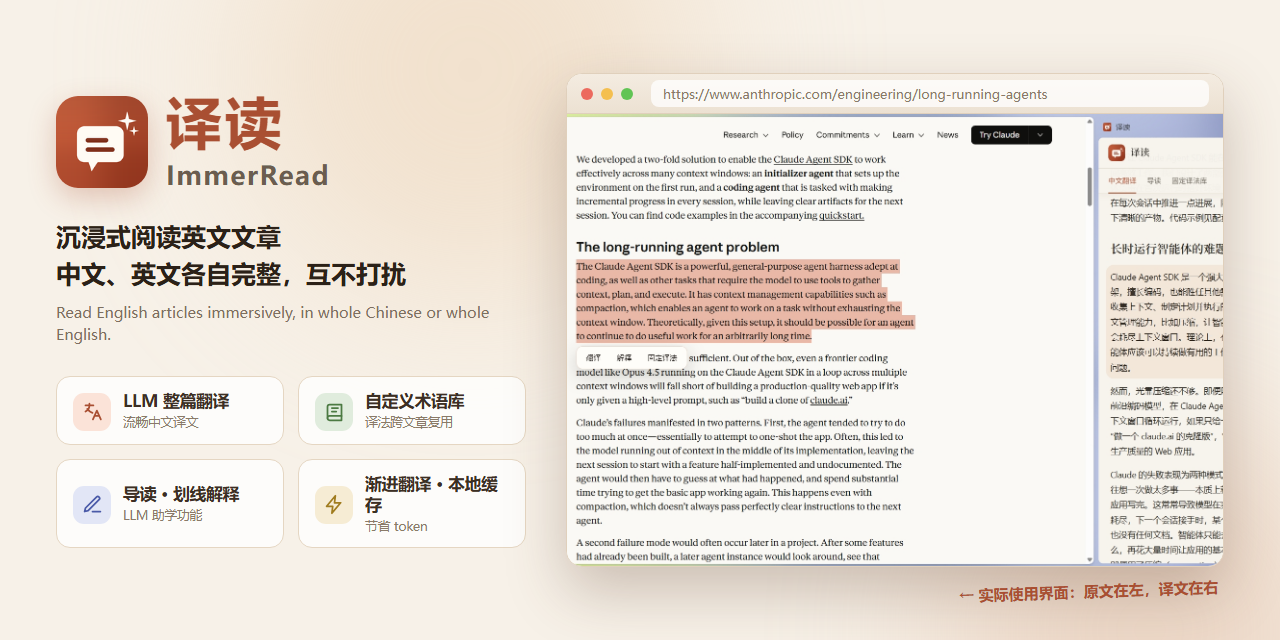
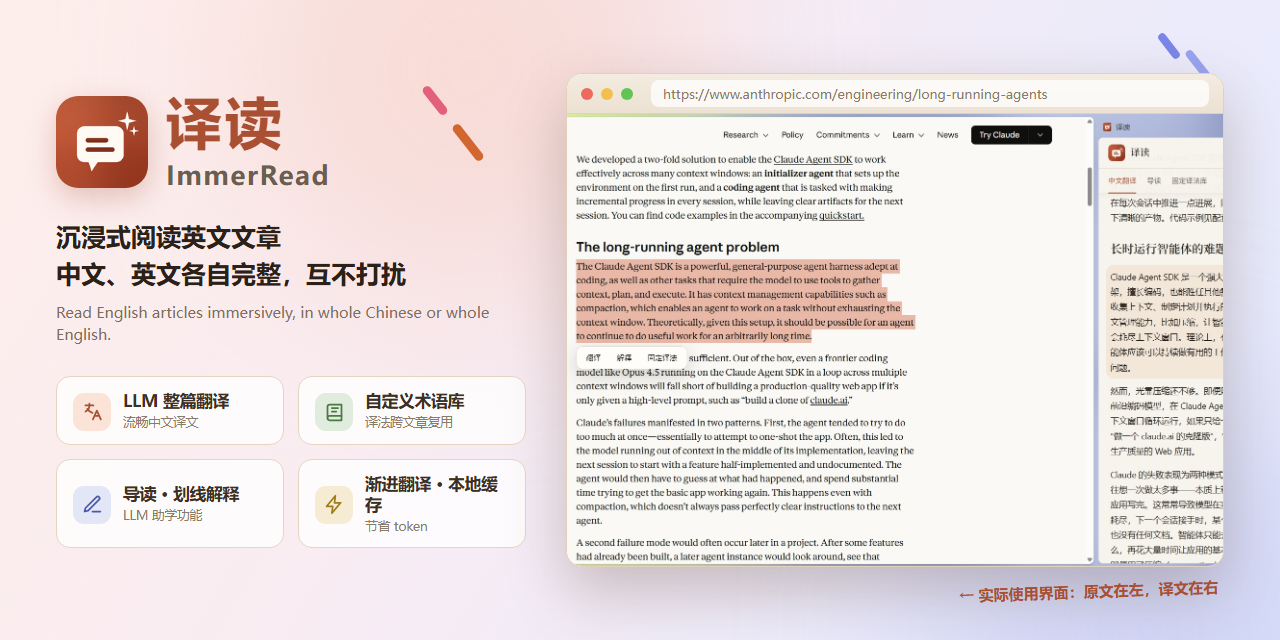
docs: social preview 换用粉紫 pastel 背景与装饰笔触

diff --git a/design-previews/social-preview.html b/design-previews/social-preview.html
@@ -7,7 +7,7 @@
   html, body { width: 1280px; height: 640px; }
   body {
     font-family: "Microsoft YaHei", "PingFang SC", "Noto Sans CJK SC", sans-serif;
-    background: #f7f1e8;
+    background: linear-gradient(120deg, #fdeeea 0%, #f9ecf2 38%, #ecebfb 72%, #e3e9fb 100%);
     color: #2b2118;
     display: flex;
     align-items: center;
@@ -17,8 +17,8 @@
     overflow: hidden;
   }
   .glow { position: absolute; border-radius: 50%; filter: blur(90px); }
-  .glow.a { width: 460px; height: 460px; background: #ecd2b4; top: -160px; left: 240px; opacity: .5; }
-  .glow.b { width: 420px; height: 420px; background: #ddb296; bottom: -200px; right: -80px; opacity: .4; }
+  .glow.a { width: 460px; height: 460px; background: #f6cfc4; top: -160px; left: 240px; opacity: .55; }
+  .glow.b { width: 460px; height: 460px; background: #c3c8f2; bottom: -220px; right: -100px; opacity: .55; }
 
   .left { width: 470px; flex: none; position: relative; }
   .brand { display: flex; align-items: center; gap: 18px; }
@@ -86,11 +86,20 @@
     font-weight: 600;
     transform: rotate(-2deg);
   }
+  .spark { position: absolute; border-radius: 6px; }
+  .spark.s1 { width: 34px; height: 9px; background: #e2607a; top: 96px; left: 418px; transform: rotate(52deg); }
+  .spark.s2 { width: 44px; height: 9px; background: #d1662f; top: 138px; left: 446px; transform: rotate(52deg); }
+  .spark.s3 { width: 30px; height: 8px; background: #7a86e8; top: 42px; right: 96px; transform: rotate(52deg); }
+  .spark.s4 { width: 38px; height: 8px; background: #9aa3f0; top: 62px; right: 62px; transform: rotate(52deg); }
 </style>
 </head>
 <body>
   <div class="glow a"></div>
   <div class="glow b"></div>
+  <div class="spark s1"></div>
+  <div class="spark s2"></div>
+  <div class="spark s3"></div>
+  <div class="spark s4"></div>
 
   <div class="left">
     <div class="brand">
